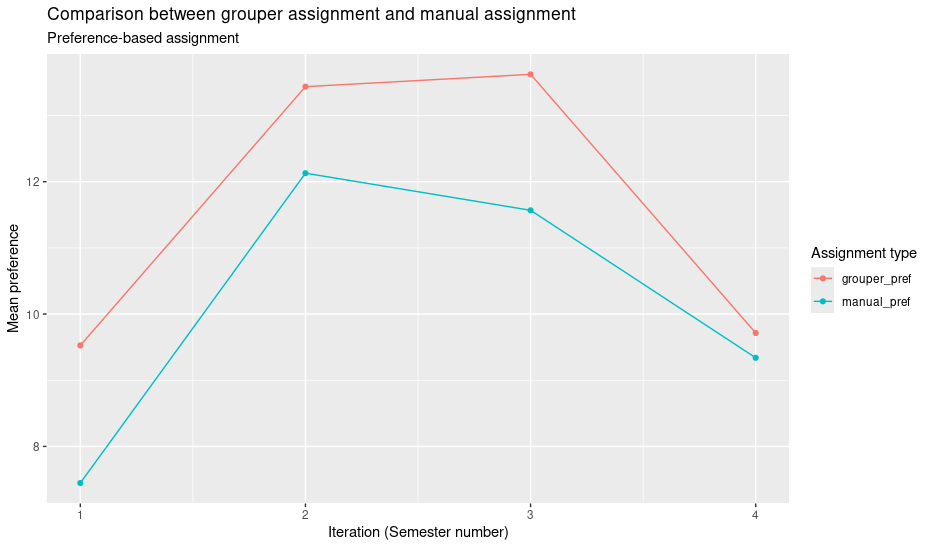
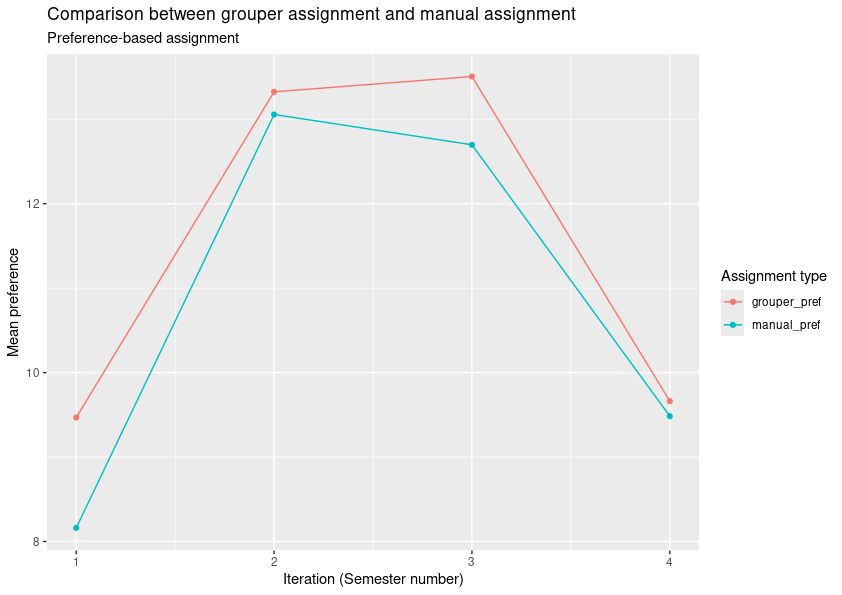
updated dataset files in mytesting

diff --git a/mytesting/README.md b/mytesting/README.md
@@ -1,0 +1,29 @@
+This folder contains files that were used in preparing and testing the package
+grouper. This file contains a brief description of files that may be useful
+to the user:
+
+* `example_datasets_descriptions.qmd`
+* `application_dsa3101.qmd` (pref-based model, with sub-groups)
+* `applictaion_hs2914.qmd` (diversity-based model)
+
+The above files contain demonstrations on how to use `grouper` with the anonymised
+student datasets from the data science course and the interdisciplinary course.
+
+* `paper.md`
+* `paper.bib`
+* `pba_example_ds.png`
+* `dba_example_hs.png`
+
+The above files are used in the paper submission.
+
+* `code_*.R`
+* `testing*.R`
+
+The above files contain preliminary versions of the functions in the package.
+
+* `prepare_hs2914_data.qmd`
+* `prepare_dsa3101.qmd`
+
+General users will not be able to run the code in the above quarto documents,
+since they require the raw data from the courses. As it includes identifiable
+information, we are unable to include it in the repository.

diff --git a/mytesting/paper.md b/mytesting/paper.md
@@ -160,10 +160,10 @@ this same group of students would have been 9.53 (higher is better).
 
 | Sem | manual_pref | grouper_pref | class_size | n_topics | n_project_teams |
 |-----|-------------|--------------|------------|----------|-----------------|
-| 1   | 7.45        | 9.53         | 62         | 4        | 7               |
-| 2   | 12.1        | 13.4         | 108        | 7        | 13              |
-| 3   | 11.6        | 13.6         | 89         | 7        | 11              |
-| 4   | 9.34        | 9.71         | 151        | 5        | 18              |
+| 1   |  8.16       |  9.47        | 62         | 4        | 7               |
+| 2   | 13.10       | 13.30        | 108        | 7        | 13              |
+| 3   | 12.70       | 13.50        | 89         | 7        | 11              |
+| 4   |  9.48       |  9.66        | 151        | 5        | 18              |
 
 ![Preference-based groupings](pba_example_ds.png)
 
